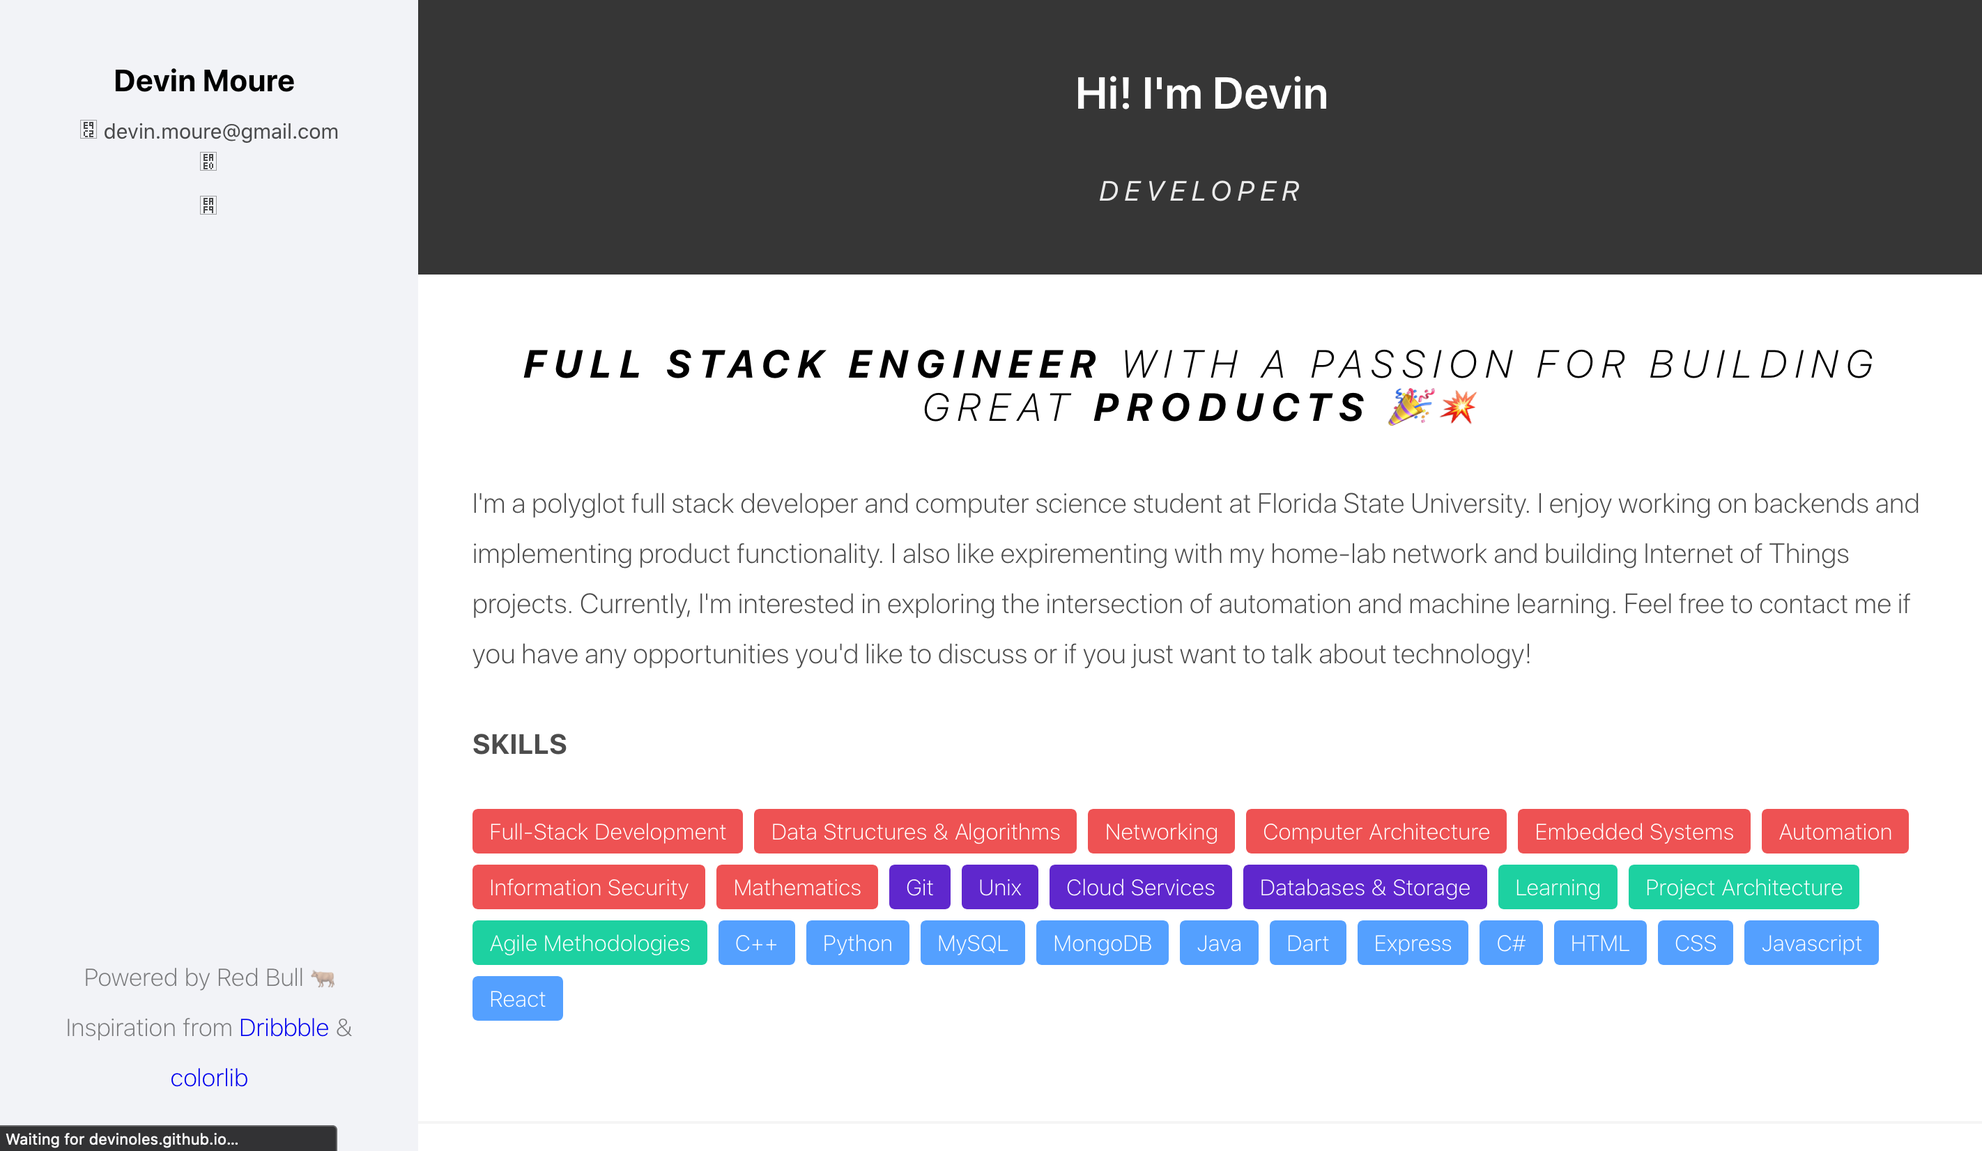
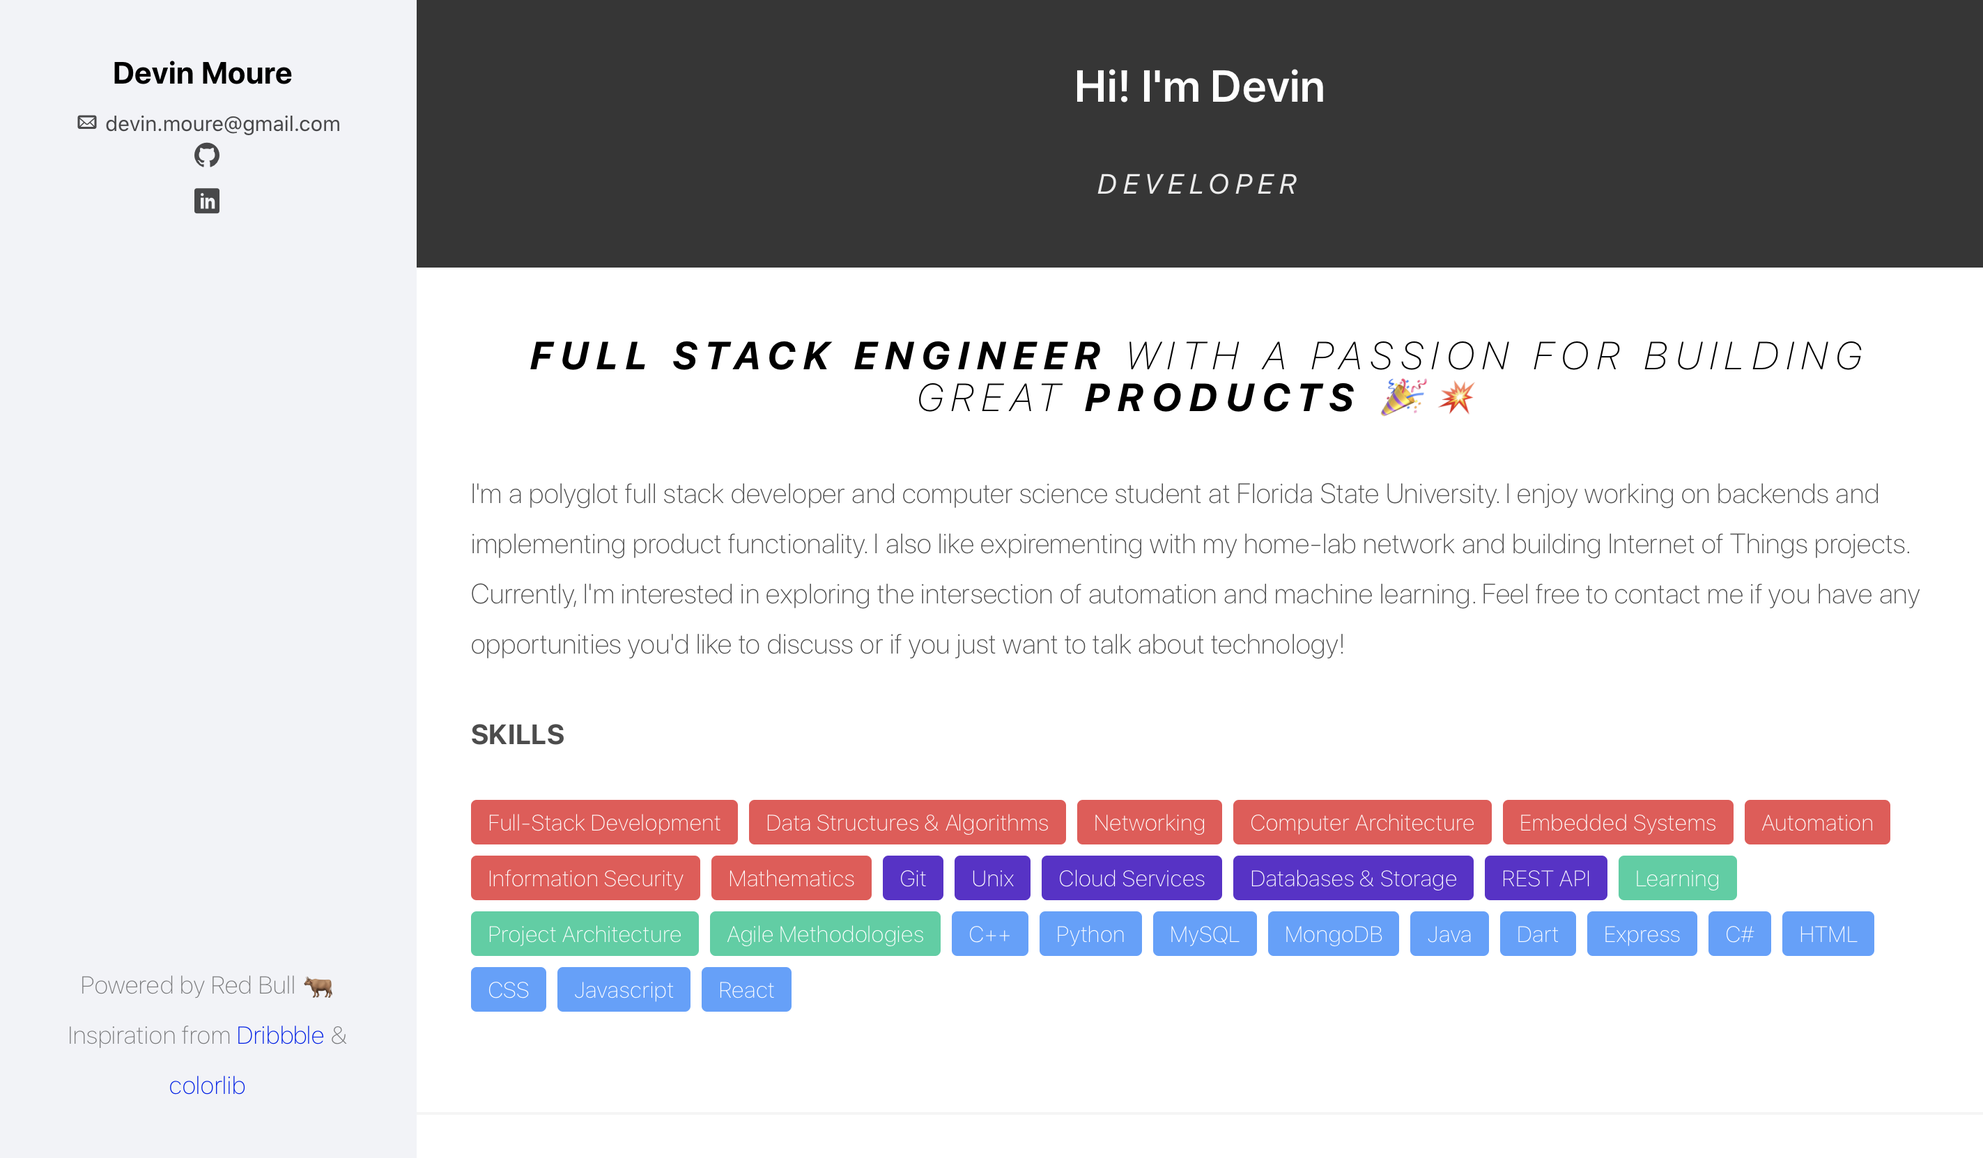
Updates

diff --git a/static/js/main.f389a38f.chunk.js b/static/js/main.f389a38f.chunk.js
@@ -1,0 +1,2 @@
+(window.webpackJsonp=window.webpackJsonp||[]).push([[0],{14:function(e,a,t){},15:function(e,a,t){},16:function(e,a,t){"use strict";t.r(a);var n=t(0),l=t.n(n),r=t(7),c=t.n(r),s=(t(14),t(1)),i=t(2),m=t(4),o=t(3),u=t(5),d=(t(15),function(e){function a(){return Object(s.a)(this,a),Object(m.a)(this,Object(o.a)(a).apply(this,arguments))}return Object(u.a)(a,e),Object(i.a)(a,[{key:"render",value:function(){return l.a.createElement("div",null,l.a.createElement("div",null,l.a.createElement("nav",{href:"#navbar",className:"js-colorlib-nav-toggle colorlib-nav-toggle","data-toggle":"collapse","data-target":"#navbar","aria-expanded":"false","aria-controls":"navbar"},l.a.createElement("i",null)),l.a.createElement("aside",{id:"colorlib-aside",className:"border js-fullheight"},l.a.createElement("div",{className:"text-center"},l.a.createElement("h1",{id:"colorlib-logo"},l.a.createElement("a",{href:"index.html"},"Devin Moure")),l.a.createElement("span",{className:"email"},l.a.createElement("i",{className:"icon-mail"})," devin.moure@gmail.com")),l.a.createElement("nav",{id:"colorlib-main-menu"},l.a.createElement("ul",null,l.a.createElement("li",null,l.a.createElement("a",{href:"https://github.com/Devinoles",target:"_blank",rel:"noopener noreferrer"},l.a.createElement("i",{className:"icon-github"}))),l.a.createElement("li",null,l.a.createElement("a",{href:"https://www.linkedin.com/in/devin-moure/",arget:"_blank",rel:"noopener noreferrer"},l.a.createElement("i",{className:"icon-linkedin2"}))))),l.a.createElement("div",{className:"colorlib-footer",id:"foot"},l.a.createElement("p",null,l.a.createElement("small",null,"Powered by Red Bull \ud83d\udc02",l.a.createElement("br",null),"Inspiration from ",l.a.createElement("a",{href:"https://dribbble.com",target:"_blank",rel:"noopener noreferrer"},l.a.createElement("div",{id:"dribble"},"Dribbble"))," & ",l.a.createElement("a",{href:"https://colorlib.com",target:"_blank",rel:"noopener noreferrer"},l.a.createElement("div",{id:"dribble"},"colorlib"))))))))}}]),a}(n.Component)),p=function(e){function a(){return Object(s.a)(this,a),Object(m.a)(this,Object(o.a)(a).apply(this,arguments))}return Object(u.a)(a,e),Object(i.a)(a,[{key:"componentDidMount",value:function(){var e=document.getElementById("hero-subtitle"),a=["Developer","Modder","Student","Entrepreneur","Engineer","Runner","Creative","Designer","Problem Solver","Programmer","Cisco Certified"],t=0,n=!0,l="";setTimeout(function r(){var c=e.innerHTML;if(n)if("|"!==c){var s=c.substring(0,c.length-1);""===s?(s="|",e.innerHTML=s,setTimeout(r,1500)):(e.innerHTML=s,setTimeout(r,75))}else{for(var i=t;i===t;)i=Math.floor(Math.random()*a.length);t=i,l=a[i],n=!1,setTimeout(r,75)}else c!==l?(e.innerHTML="|"===c?l[0]:l.substring(0,c.length+1),setTimeout(r,75)):(n=!0,setTimeout(r,1500))},1500)}},{key:"render",value:function(){return l.a.createElement("div",null,l.a.createElement("section",{className:"hero is-dark"},l.a.createElement("div",{className:"hero-body"},l.a.createElement("div",{className:"container"},l.a.createElement("div",{"data-aos":"zoom-in","data-aos-duration":1e3},l.a.createElement("h1",{className:"title",id:"hero-title"},"Hi! I'm Devin"),l.a.createElement("h2",{className:"subtitle",id:"hero-subtitle"},"Developer"))))))}}]),a}(n.Component),g=function(e){function a(){return Object(s.a)(this,a),Object(m.a)(this,Object(o.a)(a).apply(this,arguments))}return Object(u.a)(a,e),Object(i.a)(a,[{key:"render",value:function(){return l.a.createElement("div",null,l.a.createElement("section",{class:"section"},l.a.createElement("div",{class:"container"},l.a.createElement("div",{class:"columns"},l.a.createElement("div",{class:"column","data-aos":"zoom-in-left"},l.a.createElement("h2",{class:"about-title"},l.a.createElement("b",null,"Full stack engineer")," with a passion for building great ",l.a.createElement("b",null,"products \ud83c\udf89\ud83d\udca5")),l.a.createElement("p",null,"I'm a polyglot full stack developer and computer science student at Florida State University. I enjoy working on backends and implementing product functionality. I also like expirementing with my home-lab network and building Internet of Things projects. Currently, I'm interested in exploring the intersection of automation and machine learning. Feel free to contact me if you have any opportunities you'd like to discuss or if you just want to talk about technology!"),l.a.createElement("h3",null,"Skills"),l.a.createElement("p",{class:"tags"},l.a.createElement("span",{class:"tag language-tag is-medium"},"Full-Stack Development"),l.a.createElement("span",{class:"tag language-tag is-medium"},"Data Structures & Algorithms"),l.a.createElement("span",{class:"tag language-tag is-medium"},"Networking"),l.a.createElement("span",{class:"tag language-tag is-medium"},"Computer Architecture"),l.a.createElement("span",{class:"tag language-tag is-medium"},"Embedded Systems"),l.a.createElement("span",{class:"tag language-tag is-medium"},"Automation"),l.a.createElement("span",{class:"tag language-tag is-medium"},"Information Security"),l.a.createElement("span",{class:"tag language-tag is-medium"},"Mathematics"),l.a.createElement("span",{class:"tag db-tag is-medium"},"Git"),l.a.createElement("span",{class:"tag db-tag is-medium"},"Unix"),l.a.createElement("span",{class:"tag db-tag is-medium"},"Cloud Services"),l.a.createElement("span",{class:"tag db-tag is-medium"},"Databases & Storage"),l.a.createElement("span",{class:"tag db-tag is-medium"},"REST API"),l.a.createElement("span",{class:"tag misc-tag is-medium"},"Learning"),l.a.createElement("span",{class:"tag misc-tag is-medium"},"Project Architecture"),l.a.createElement("span",{class:"tag misc-tag is-medium"},"Agile Methodologies"),l.a.createElement("span",{class:"tag tech-tag is-medium"},"C++"),l.a.createElement("span",{class:"tag tech-tag is-medium"},"Python"),l.a.createElement("span",{class:"tag tech-tag is-medium"},"MySQL"),l.a.createElement("span",{class:"tag tech-tag is-medium"},"MongoDB"),l.a.createElement("span",{class:"tag tech-tag is-medium"},"Java"),l.a.createElement("span",{class:"tag tech-tag is-medium"},"Dart"),l.a.createElement("span",{class:"tag tech-tag is-medium"},"Express"),l.a.createElement("span",{class:"tag tech-tag is-medium"},"C#"),l.a.createElement("span",{class:"tag tech-tag is-medium"},"HTML"),l.a.createElement("span",{class:"tag tech-tag is-medium"},"CSS"),l.a.createElement("span",{class:"tag tech-tag is-medium"},"Javascript"),l.a.createElement("span",{class:"tag tech-tag is-medium"},"React")))))),l.a.createElement("hr",null))}}]),a}(n.Component),E=(n.Component,function(e){function a(){return Object(s.a)(this,a),Object(m.a)(this,Object(o.a)(a).apply(this,arguments))}return Object(u.a)(a,e),Object(i.a)(a,[{key:"render",value:function(){return l.a.createElement("div",null,l.a.createElement("section",{className:"section"},l.a.createElement("div",{className:"container"},l.a.createElement("h2",null,"Projects"),l.a.createElement("div",{className:"columns is-multiline"},l.a.createElement("div",{className:"column is-one-third","data-aos":"zoom-in-up"},l.a.createElement("a",{href:"https://github.com/DeviNoles/swappa"},l.a.createElement("div",{className:"project modal-button"},l.a.createElement("div",{className:"project-preview"},l.a.createElement("figure",{className:"image is-4by3"},l.a.createElement("img",{src:"images/swappapy.png"}))),l.a.createElement("div",{className:"project-details"},l.a.createElement("h3",null,"Swappa Python Package"),l.a.createElement("p",null,"A Python wrapper that returns data from Swappa.com"))))),l.a.createElement("div",{className:"column is-one-third","data-aos":"zoom-in-up"},l.a.createElement("a",{href:"https://github.com/DeviNoles/AlgorithmVisualization"},l.a.createElement("div",{className:"project modal-button"},l.a.createElement("div",{className:"project-preview"},l.a.createElement("figure",{className:"image is-4by3"},l.a.createElement("img",{src:"images/sorts.png"}))),l.a.createElement("div",{className:"project-details"},l.a.createElement("h3",null,"Algorithm Visualizer"),l.a.createElement("p",null,"Watch how different sorting algorithms compare."))))),l.a.createElement("div",{className:"column is-one-third","data-aos":"zoom-in-up"},l.a.createElement("a",{href:"https://github.com/DeviNoles/Custom_Botnet"},l.a.createElement("div",{className:"project modal-button"},l.a.createElement("div",{className:"project-preview"},l.a.createElement("figure",{className:"image is-4by3"},l.a.createElement("img",{src:"images/botnet.png"}))),l.a.createElement("div",{className:"project-details"},l.a.createElement("h3",null,"Custom Botnet"),l.a.createElement("p",null,"IRC botnet written in Python for automation and controlling my network."))))),l.a.createElement("div",{className:"column is-one-third","data-aos":"zoom-in-up"},l.a.createElement("a",{href:"https://github.com/DeviNoles/portfolio"},l.a.createElement("div",{className:"project modal-button"},l.a.createElement("div",{className:"project-preview"},l.a.createElement("figure",{className:"image is-4by3"},l.a.createElement("img",{src:"images/porty.png"}))),l.a.createElement("div",{className:"project-details"},l.a.createElement("h3",null,"Portfolio Website"),l.a.createElement("p",null,"A website to show off my projects made with modular React components."))))),l.a.createElement("div",{className:"column is-one-third","data-aos":"zoom-in-up"},l.a.createElement("a",{href:"https://ldjam.com/events/ludum-dare/46/henry"},l.a.createElement("div",{className:"project modal-button"},l.a.createElement("div",{className:"project-preview"},l.a.createElement("figure",{className:"image is-4by3"},l.a.createElement("img",{src:"images/ld46.png"}))),l.a.createElement("div",{className:"project-details"},l.a.createElement("h3",null,"Henry"),l.a.createElement("p",null,"Basic top down shooter made during Ludum Dare 46 Game Jam."))))),l.a.createElement("div",{className:"column is-one-third","data-aos":"zoom-in-up"},l.a.createElement("a",{href:"https://ldjam.com/events/ludum-dare/46/henry"},l.a.createElement("div",{className:"project modal-button"},l.a.createElement("div",{className:"project-preview"},l.a.createElement("figure",{className:"image is-4by3"},l.a.createElement("img",{src:"images/fish.png"}))),l.a.createElement("div",{className:"project-details"},l.a.createElement("h3",null,"Arma 3 Scripts"),l.a.createElement("p",null,"SQF scripts + other Arma 3 assets I've made, mostly for Arma 3 Reality Life."))))),l.a.createElement("div",{className:"column is-one-third","data-aos":"zoom-in-up"},l.a.createElement("a",{href:"https://github.com/DeviNoles/Puzzalarm"},l.a.createElement("div",{className:"project modal-button"},l.a.createElement("div",{className:"project-preview"},l.a.createElement("figure",{className:"image is-4by3"},l.a.createElement("img",{src:"images/puzzalarm.png"}))),l.a.createElement("div",{className:"project-details"},l.a.createElement("h3",null,"Puzzalarm"),l.a.createElement("p",null,"Android alarm clock that requires the user to solve a puzzle to silence the device."))))),l.a.createElement("div",{className:"column is-one-third","data-aos":"zoom-in-up"},l.a.createElement("a",{href:"https://github.com/DeviNoles/python-network-socket"},l.a.createElement("div",{className:"project modal-button"},l.a.createElement("div",{className:"project-preview"},l.a.createElement("figure",{className:"image is-4by3"},l.a.createElement("img",{src:"images/ftp.png"}))),l.a.createElement("div",{className:"project-details"},l.a.createElement("h3",null,"Python Network"),l.a.createElement("p",null,"Transfer Files within a network using sockets in Python"))))),l.a.createElement("div",{className:"column is-one-third","data-aos":"zoom-in-up"},l.a.createElement("a",{href:"https://github.com/DeviNoles/arm-assembler"},l.a.createElement("div",{className:"project modal-button"},l.a.createElement("div",{className:"project-preview"},l.a.createElement("figure",{className:"image is-4by3"},l.a.createElement("img",{src:"url"}))),l.a.createElement("div",{className:"project-details"},l.a.createElement("h3",null,"Arm Assembler"),l.a.createElement("p",null,"Parse an Arm code file and turn it into machine code."))))),l.a.createElement("div",{className:"column is-one-third","data-aos":"zoom-in-up"},l.a.createElement("div",{className:"project modal-button"},l.a.createElement("div",{className:"project-preview"},l.a.createElement("figure",{className:"image is-4by3"},l.a.createElement("img",{src:"images/lab.png"}))),l.a.createElement("div",{className:"project-details"},l.a.createElement("h3",null,"Homelab"),l.a.createElement("p",null,"Repository with information and files about my homelab & networking. "))))))))}}]),a}(n.Component)),h=function(e){function a(){return Object(s.a)(this,a),Object(m.a)(this,Object(o.a)(a).apply(this,arguments))}return Object(u.a)(a,e),Object(i.a)(a,[{key:"render",value:function(){return l.a.createElement("div",{id:"colorlib-page"},l.a.createElement("div",{id:"container-wrap"},l.a.createElement(d,null),l.a.createElement("div",{id:"colorlib-main"},l.a.createElement(p,null),l.a.createElement(g,null),l.a.createElement(E,null))))}}]),a}(n.Component);Boolean("localhost"===window.location.hostname||"[::1]"===window.location.hostname||window.location.hostname.match(/^127(?:\.(?:25[0-5]|2[0-4][0-9]|[01]?[0-9][0-9]?)){3}$/));c.a.render(l.a.createElement(h,null),document.getElementById("root")),"serviceWorker"in navigator&&navigator.serviceWorker.ready.then(function(e){e.unregister()})},8:function(e,a,t){e.exports=t(16)}},[[8,1,2]]]);
+//# sourceMappingURL=main.f389a38f.chunk.js.map

diff --git a/index.html b/index.html
@@ -1,3 +1,3 @@
 <!doctype html><html lang="en"><head><meta charset="utf-8"/><meta name="viewport" content="width=device-width,initial-scale=1,shrink-to-fit=no"/><meta name="theme-color" content="#000000"/><link rel="manifest" href="/portfolio/manifest.json"/><link href="https://fonts.googleapis.com/css?family=Quicksand:300,400,500,700" rel="stylesheet"><link href="https://fonts.googleapis.com/css?family=Playfair+Display:400,400i,700" rel="stylesheet"><link rel="stylesheet" href="/portfolio/css/animate.css"><link rel="stylesheet" href="/portfolio/css/icomoon.css"><link rel="stylesheet" href="/portfolio/css/bootstrap.css"><link rel="stylesheet" href="/portfolio/css/flexslider.css"><link rel="stylesheet" href="/portfolio/fonts/flaticon/font/flaticon.css"><link rel="stylesheet" href="/portfolio/css/owl.carousel.min.css"><link rel="stylesheet" href="/portfolio/css/owl.theme.default.min.css"><link rel="stylesheet" href="/portfolio/css/ss.css"><script src="/portfolio/js/modernizr-2.6.2.min.js"></script><script src="https://unpkg.com/aos@2.3.1/dist/aos.js"></script><script>AOS.init()</script><!--[if lt IE 9]>
     <script src="js/respond.min.js"></script>
-    <![endif]--><title>Hello!!</title><link href="/portfolio/static/css/main.808ceb54.chunk.css" rel="stylesheet"></head><body><noscript>You need to enable JavaScript to run this app.</noscript><div id="root"></div><script src="/portfolio/js/jquery.min.js"></script><script src="/portfolio/js/jquery.easing.1.3.js"></script><script src="/portfolio/js/bootstrap.min.js"></script><script src="/portfolio/js/jquery.waypoints.min.js"></script><script src="/portfolio/js/jquery.flexslider-min.js"></script><script src="/portfolio/js/owl.carousel.min.js"></script><script src="/portfolio/js/jquery.countTo.js"></script><script src="/portfolio/js/main.js"></script><script>!function(l){function e(e){for(var r,t,n=e[0],o=e[1],u=e[2],f=0,i=[];f<n.length;f++)t=n[f],p[t]&&i.push(p[t][0]),p[t]=0;for(r in o)Object.prototype.hasOwnProperty.call(o,r)&&(l[r]=o[r]);for(s&&s(e);i.length;)i.shift()();return c.push.apply(c,u||[]),a()}function a(){for(var e,r=0;r<c.length;r++){for(var t=c[r],n=!0,o=1;o<t.length;o++){var u=t[o];0!==p[u]&&(n=!1)}n&&(c.splice(r--,1),e=f(f.s=t[0]))}return e}var t={},p={1:0},c=[];function f(e){if(t[e])return t[e].exports;var r=t[e]={i:e,l:!1,exports:{}};return l[e].call(r.exports,r,r.exports,f),r.l=!0,r.exports}f.m=l,f.c=t,f.d=function(e,r,t){f.o(e,r)||Object.defineProperty(e,r,{enumerable:!0,get:t})},f.r=function(e){"undefined"!=typeof Symbol&&Symbol.toStringTag&&Object.defineProperty(e,Symbol.toStringTag,{value:"Module"}),Object.defineProperty(e,"__esModule",{value:!0})},f.t=function(r,e){if(1&e&&(r=f(r)),8&e)return r;if(4&e&&"object"==typeof r&&r&&r.__esModule)return r;var t=Object.create(null);if(f.r(t),Object.defineProperty(t,"default",{enumerable:!0,value:r}),2&e&&"string"!=typeof r)for(var n in r)f.d(t,n,function(e){return r[e]}.bind(null,n));return t},f.n=function(e){var r=e&&e.__esModule?function(){return e.default}:function(){return e};return f.d(r,"a",r),r},f.o=function(e,r){return Object.prototype.hasOwnProperty.call(e,r)},f.p="/portfolio/";var r=window.webpackJsonp=window.webpackJsonp||[],n=r.push.bind(r);r.push=e,r=r.slice();for(var o=0;o<r.length;o++)e(r[o]);var s=n;a()}([])</script><script src="/portfolio/static/js/2.5ec21d73.chunk.js"></script><script src="/portfolio/static/js/main.0abcf1bf.chunk.js"></script></body></html>
+    <![endif]--><title>Hello!!</title><link href="/portfolio/static/css/main.808ceb54.chunk.css" rel="stylesheet"></head><body><noscript>You need to enable JavaScript to run this app.</noscript><div id="root"></div><script src="/portfolio/js/jquery.min.js"></script><script src="/portfolio/js/jquery.easing.1.3.js"></script><script src="/portfolio/js/bootstrap.min.js"></script><script src="/portfolio/js/jquery.waypoints.min.js"></script><script src="/portfolio/js/jquery.flexslider-min.js"></script><script src="/portfolio/js/owl.carousel.min.js"></script><script src="/portfolio/js/jquery.countTo.js"></script><script src="/portfolio/js/main.js"></script><script>!function(l){function e(e){for(var r,t,n=e[0],o=e[1],u=e[2],f=0,i=[];f<n.length;f++)t=n[f],p[t]&&i.push(p[t][0]),p[t]=0;for(r in o)Object.prototype.hasOwnProperty.call(o,r)&&(l[r]=o[r]);for(s&&s(e);i.length;)i.shift()();return c.push.apply(c,u||[]),a()}function a(){for(var e,r=0;r<c.length;r++){for(var t=c[r],n=!0,o=1;o<t.length;o++){var u=t[o];0!==p[u]&&(n=!1)}n&&(c.splice(r--,1),e=f(f.s=t[0]))}return e}var t={},p={1:0},c=[];function f(e){if(t[e])return t[e].exports;var r=t[e]={i:e,l:!1,exports:{}};return l[e].call(r.exports,r,r.exports,f),r.l=!0,r.exports}f.m=l,f.c=t,f.d=function(e,r,t){f.o(e,r)||Object.defineProperty(e,r,{enumerable:!0,get:t})},f.r=function(e){"undefined"!=typeof Symbol&&Symbol.toStringTag&&Object.defineProperty(e,Symbol.toStringTag,{value:"Module"}),Object.defineProperty(e,"__esModule",{value:!0})},f.t=function(r,e){if(1&e&&(r=f(r)),8&e)return r;if(4&e&&"object"==typeof r&&r&&r.__esModule)return r;var t=Object.create(null);if(f.r(t),Object.defineProperty(t,"default",{enumerable:!0,value:r}),2&e&&"string"!=typeof r)for(var n in r)f.d(t,n,function(e){return r[e]}.bind(null,n));return t},f.n=function(e){var r=e&&e.__esModule?function(){return e.default}:function(){return e};return f.d(r,"a",r),r},f.o=function(e,r){return Object.prototype.hasOwnProperty.call(e,r)},f.p="/portfolio/";var r=window.webpackJsonp=window.webpackJsonp||[],n=r.push.bind(r);r.push=e,r=r.slice();for(var o=0;o<r.length;o++)e(r[o]);var s=n;a()}([])</script><script src="/portfolio/static/js/2.5ec21d73.chunk.js"></script><script src="/portfolio/static/js/main.f389a38f.chunk.js"></script></body></html>

diff --git a/precache-manifest.cd8f23a4f5a26370d8e1105d2ed78a24.js b/precache-manifest.cd8f23a4f5a26370d8e1105d2ed78a24.js
@@ -1,11 +1,11 @@
 self.__precacheManifest = [
   {
-    "revision": "0abcf1bff54361ffc901",
+    "revision": "f389a38f12bdba084bc7",
     "url": "/portfolio/static/css/main.808ceb54.chunk.css"
   },
   {
-    "revision": "0abcf1bff54361ffc901",
-    "url": "/portfolio/static/js/main.0abcf1bf.chunk.js"
+    "revision": "f389a38f12bdba084bc7",
+    "url": "/portfolio/static/js/main.f389a38f.chunk.js"
   },
   {
     "revision": "0fad4c0f10d57b530fe4",
@@ -16,7 +16,7 @@ self.__precacheManifest = [
     "url": "/portfolio/static/js/2.5ec21d73.chunk.js"
   },
   {
-    "revision": "d67199351b6ad678fa40974557f7b87f",
+    "revision": "368d2d1318b065c9fed86ec1db1f1cba",
     "url": "/portfolio/index.html"
   }
 ];

diff --git a/service-worker.js b/service-worker.js
@@ -14,7 +14,7 @@
 importScripts("https://storage.googleapis.com/workbox-cdn/releases/3.6.3/workbox-sw.js");
 
 importScripts(
-  "/portfolio/precache-manifest.7baa1194e890732b39a08ede33be5a66.js"
+  "/portfolio/precache-manifest.cd8f23a4f5a26370d8e1105d2ed78a24.js"
 );
 
 workbox.clientsClaim();
